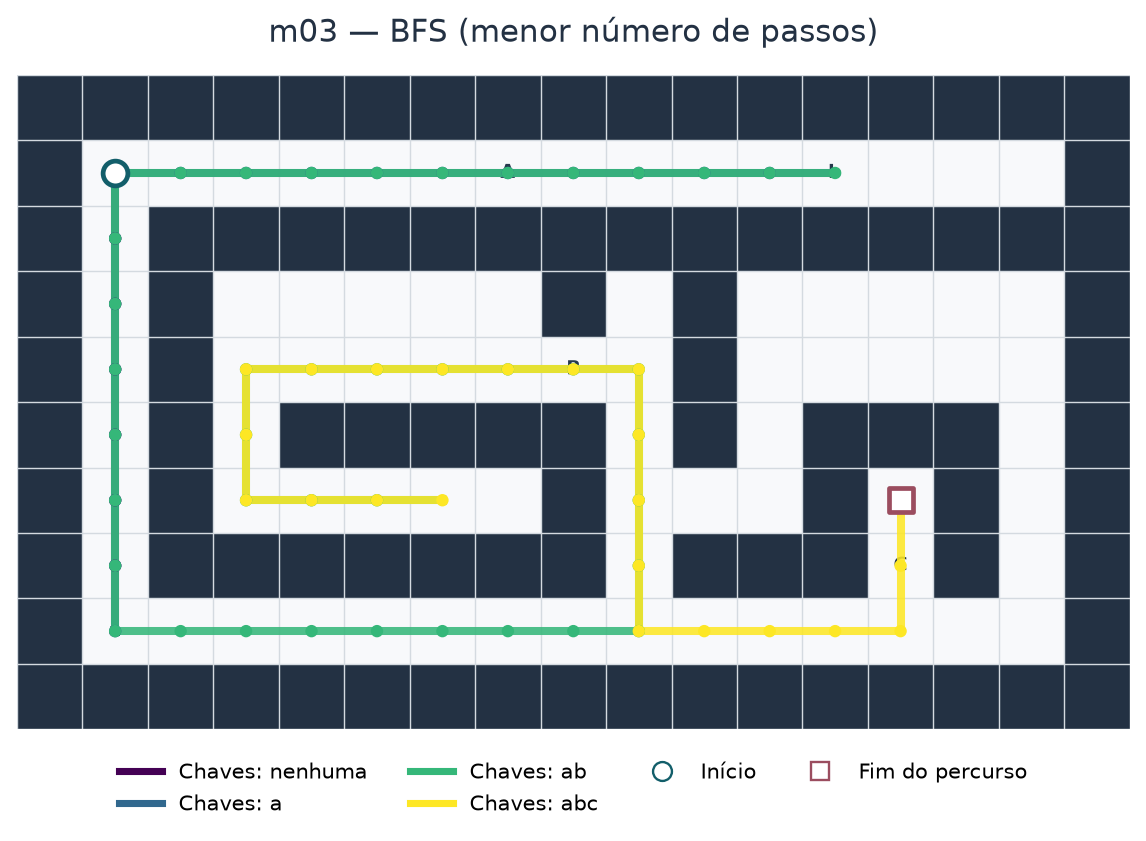
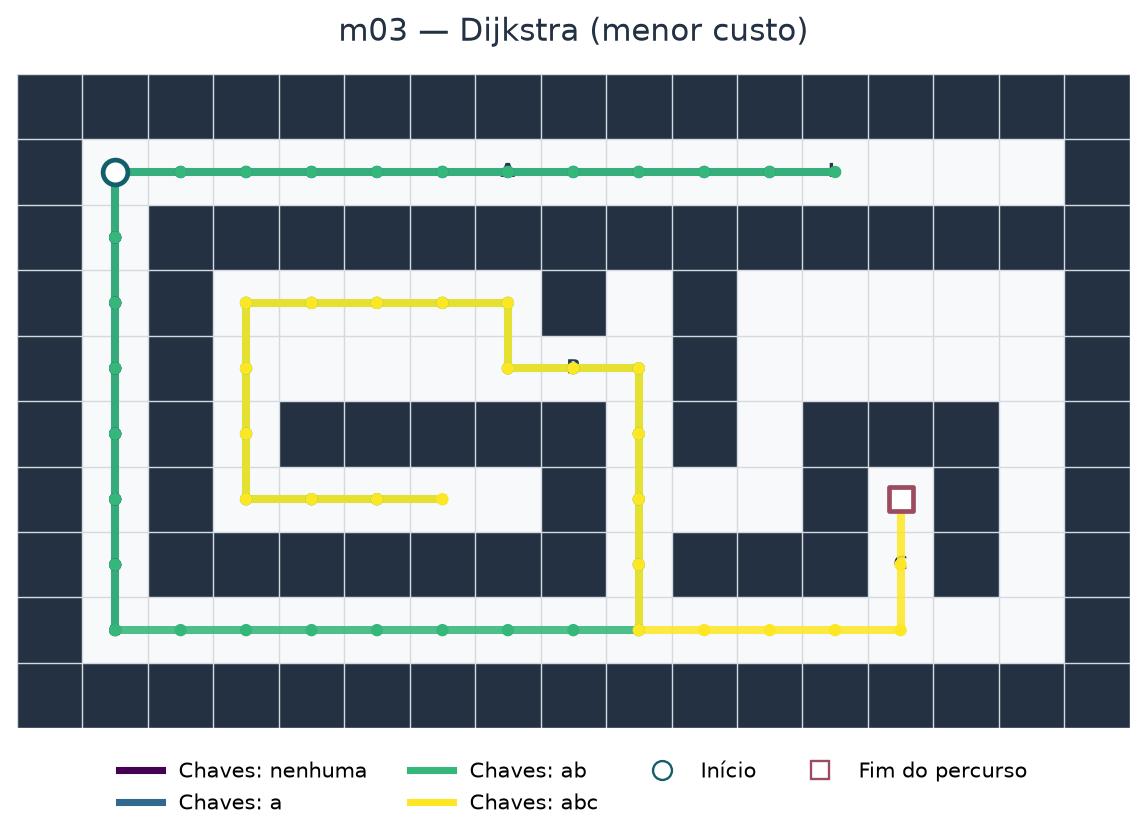
feat(cli, viz): update algorithms to use Dijkstra for cost optimization; enhance README and tests for new functionality

diff --git a/src/visualizar_parte1.py b/src/visualizar_parte1.py
@@ -49,7 +49,7 @@ def preparar_mapa(arquivo, algoritmos=("BFS",), *, fonte_consumivel=False):
             "estados": list(estados), "custos": custos}, grafo, estados, resultados
 
 
-def gerar_mapa(arquivo, saida, *, algoritmo="BFS", interactive=False, fonte_consumivel=False,
+def gerar_mapa(arquivo, saida, *, algoritmo="DIJKSTRA", interactive=False, fonte_consumivel=False,
                armadilhas_estados=None):
     saida = Path(saida)
     dados, grafo, estados, resultados = preparar_mapa(arquivo, (algoritmo,), fonte_consumivel=fonte_consumivel)
@@ -61,7 +61,8 @@ def gerar_mapa(arquivo, saida, *, algoritmo="BFS", interactive=False, fonte_cons
         dados["armadilhas_estados"] = armadilhas_estados
     caminho = dados["algoritmos"][algoritmo]
     if caminho:
-        desenhar_percurso(dados["grade"], caminho, saida / f"percurso_{Path(arquivo).stem}.png",
+        nome_mapa = {"m03_tres_chaves": "m03", "m08_grande": "m08"}.get(Path(arquivo).stem, Path(arquivo).stem)
+        desenhar_percurso(dados["grade"], caminho, saida / f"percurso_{nome_mapa}.png",
                           titulo=f"{Path(arquivo).stem} — {algoritmo}")
     if interactive:
         gerar_html_interativo({Path(arquivo).stem: dados}, saida / f"labirinto_{Path(arquivo).stem}.html")
@@ -77,9 +78,12 @@ def gerar_figuras(arquivos, saida):
             arquivos[nome], ("BFS", "DFS", "DIJKSTRA", "BELLMAN_FORD")
         )
         mapas[nome] = dados
-        if nome in ("m03", "m08") and dados["algoritmos"]["BFS"]:
-            desenhar_percurso(dados["grade"], dados["algoritmos"]["BFS"], saida / f"percurso_{nome}.png",
-                              titulo=f"{nome} — BFS (menor número de passos)")
+        if nome in ("m03", "m08"):
+            caminho = dados["algoritmos"]["DIJKSTRA"]
+            if not caminho:
+                raise ValueError(f"{nome}: {dados['status']['DIJKSTRA']}")
+            desenhar_percurso(dados["grade"], caminho, saida / f"percurso_{nome}.png",
+                              titulo=f"{nome} — Dijkstra (menor custo)")
         if nome == "m02":
             desenhar_camadas(grafo, saida / "camadas_m02.png")
             desenhar_arvore_bfs(resultados["BFS"], saida / "arvore_bfs_m02.png")

diff --git a/tests/test_visualizar_parte1.py b/tests/test_visualizar_parte1.py
@@ -29,7 +29,7 @@ def test_mapa_sem_saida_gera_html_com_status(tmp_path):
     status = gerar_mapa(MAPAS / "m07_impossivel.txt", tmp_path, interactive=True)
     assert "não alcançável" in status
     html = (tmp_path / "labirinto_m07_impossivel.html").read_text(encoding="utf-8")
-    assert status in html and '"BFS": []' in html
+    assert status in html and '"DIJKSTRA": []' in html
     assert not list(tmp_path.glob("*.png"))
 
 
@@ -54,6 +54,14 @@ def test_cli_recebe_estados_armadilha(tmp_path, capsys):
 def test_rejeita_armadilha_ausente_do_grafo(tmp_path):
     with pytest.raises(ValueError, match="estados existentes"):
         gerar_mapa(MAPAS / "m02_uma_chave.txt", tmp_path, armadilhas_estados=["(99,99)|-|{}"])
+
+
+def test_percurso_m03_usa_mesmo_arquivo_do_lote(tmp_path):
+    gerar_mapa(MAPAS / "m03_tres_chaves.txt", tmp_path)
+    assert (tmp_path / "percurso_m03.png").exists()
+    assert not (tmp_path / "percurso_m03_tres_chaves.png").exists()
+    dados, _, _, resultados = preparar_mapa(MAPAS / "m03_tres_chaves.txt", ("DIJKSTRA",))
+    assert dados["custos"]["DIJKSTRA"][-1] == resultados["DIJKSTRA"]["distancia"]["ALVO"]
 
 
 def test_cli_interativo_preserva_html_conjunto_e_outros_mapas(tmp_path):

diff --git a/src/cli.py b/src/cli.py
@@ -44,7 +44,7 @@ def main(argv: list[str] | None = None) -> int:
                 armadilhas = json.loads(Path(args.arquivo_armadilhas).read_text(encoding="utf-8"))
             if args.armadilhas and armadilhas is None:
                 parser.error("--armadilhas exige --arquivo-armadilhas com os estados calculados pelo grupo")
-            status = gerar_mapa(args.mapa, args.out, algoritmo=args.alg or "BFS",
+            status = gerar_mapa(args.mapa, args.out, algoritmo=args.alg or "DIJKSTRA",
                                 interactive=args.interactive, fonte_consumivel=args.fonte_consumivel,
                                 armadilhas_estados=armadilhas)
             if args.armadilhas:

diff --git a/docs/REGISTRO_IA.md b/docs/REGISTRO_IA.md
@@ -52,7 +52,8 @@ Exigido pelo enunciado: todo uso de IA é declarado aqui e na `DECLARACAO_IA.pdf
 | 15/11/2026 | Matheus | Codex | Dúvidas conceituais, revisão do código escrito pelo integrante e criação e execução de testes unitários | `src/graphs/estados.py` (revisão), `tests/test_estados.py` | Permitido (dúvidas conceituais, revisão de código e testes unitários) |
 | 15/11/2026 | Thomaz | Codex | Integração das visualizações com mapas, grafos e algoritmos do grupo; tratamento de resultados indisponíveis no HTML e testes de integração. Armadilhas permanecem dependentes da análise do grupo | `src/visualizar_parte1.py`, `src/viz.py`, `src/cli.py`, `tests/test_viz.py`, `tests/test_visualizar_parte1.py`, `README.md` | Permitido (apresentação, integração e testes) |
 | 15/11/2026 | Thomaz | Codex | Perfil de execução e agrupamento dos marcadores do percurso para reduzir o tempo de desenho; comparação das imagens e execução dos testes de visualização | `src/viz.py`, `out/parte1/` | Permitido (desempenho e apresentação) |
-| 15/11/2026 | Thomaz | Codex | Revisão visual do HTML e das figuras: contraste, legendas, setas, responsividade e correção de textos; geração e conferência das saídas e execução dos testes de visualização | `src/viz.py`, `out/parte1/` | Permitido (apresentação e testes) |
+| 15/11/2026 | Thomaz | Codex | Revisão visual do HTML e das figuras: contraste, legendas, setas, responsividade e correção de textos; conferência visual e execução dos testes de visualização | `src/viz.py` | Permitido (apresentação e testes) |
 | 15/11/2026 | Vagner | Claude Code | Template HTML/JS do labirinto interativo (pedido da professora): custo acumulado, troca de camadas, realce de estados-armadilha por camada, aviso de status do algoritmo e atalhos de teclado; validação aceita percurso vazio quando há mensagem de status. Só a parte visual; nenhum algoritmo, percurso, armadilha ou saída obrigatória foi gerado pela IA | `src/viz.py` (`gerar_html_interativo`) | Permitido (sintaxe de visualização/UX) |
 | 15/11/2026 | Thomaz | Codex | Resolução dos conflitos de apresentação; integração dos custos acumulados e estados existentes ao HTML e verificação por testes | `src/viz.py`, `src/visualizar_parte1.py`, `tests/test_visualizar_parte1.py` | Permitido (integração e apresentação) |
 | 15/11/2026 | Thomaz | Codex | Verificação dos testes de estados e das figuras P5a; integração da CLI e do HTML para receber estados-armadilha calculados pelo grupo, com testes de entrada | `src/cli.py`, `src/visualizar_parte1.py`, `tests/test_visualizar_parte1.py`, `README.md` | Permitido (integração e testes; sem cálculo de armadilhas) |
+| 16/11/2026 | Thomaz | Codex | Ajuste da integração para apresentar percursos de menor custo calculados pelo Dijkstra do grupo e padronização dos nomes das figuras; testes de integração | `src/visualizar_parte1.py`, `src/cli.py`, `tests/test_visualizar_parte1.py`, `README.md` | Permitido (integração e testes) |

diff --git a/README.md b/README.md
@@ -49,9 +49,10 @@ Para gerar as figuras P5a e o HTML com os mapas m02, m03 e m08:
 python -m src.visualizar_parte1 --out ./out/parte1/
 ```
 
-Os percursos desse conjunto usam BFS (menor número de passos). O HTML mostra
+Os percursos m03 e m08 desse conjunto usam Dijkstra (menor custo). A árvore
+do m02 usa BFS. O HTML mostra
 que as armadilhas não foram fornecidas até que a análise do grupo esteja pronta.
-Na CLI, `--mapa` gera o percurso do algoritmo escolhido e `--interactive`
+Na CLI, `--mapa` gera o percurso do algoritmo escolhido (Dijkstra por padrão) e `--interactive`
 gera `labirinto_<nome-do-mapa>.html`, preservando o HTML conjunto
 `labirinto_interativo.html`; se o percurso não existir ou o algoritmo não se aplicar,
 o motivo é exibido. Para mostrar armadilhas, `--arquivo-armadilhas` recebe um
